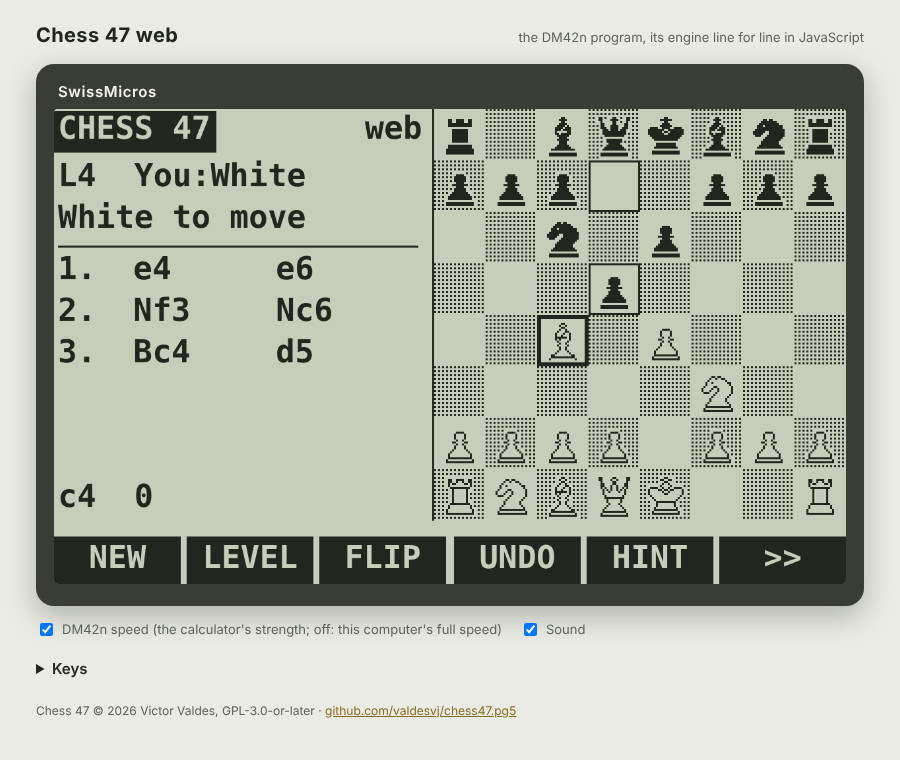
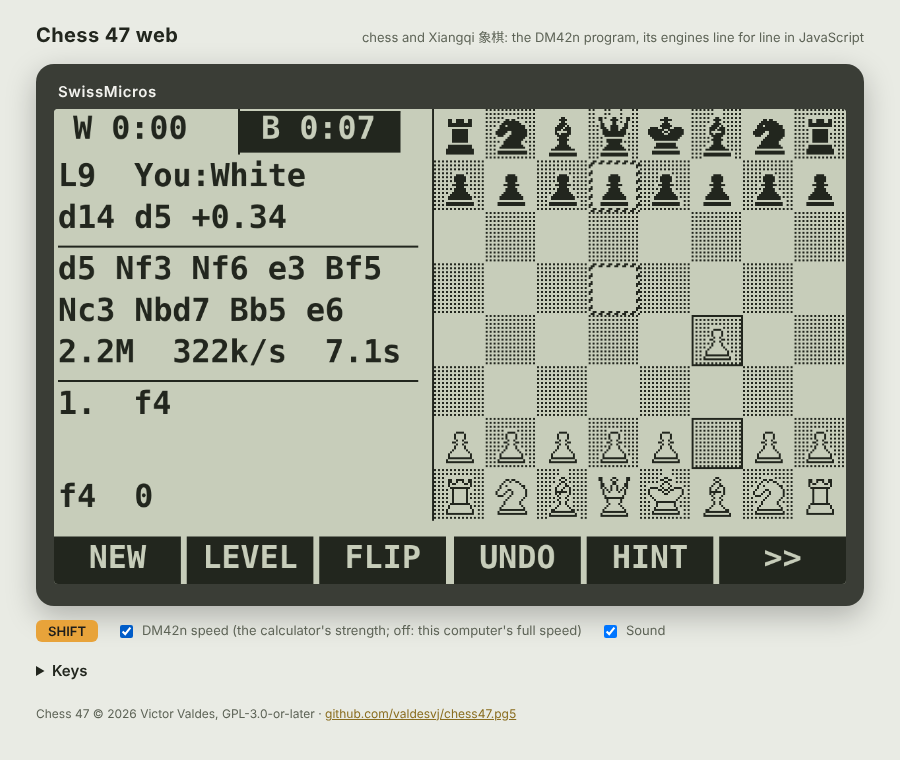
v1.2.1: the expected line always complete; the README, the screenshots
- The main-line table keeps the deeper entries of the current search
  (depth, age): the thinking display's whole line now shows after any
  opening (v1.2 sometimes showed one move). The search unchanged
  (test/bench_chess.txt; the JS engines = C).
- README: the description (tournament clock, thinking display, Xiangqi,
  the web version), "New in v1.2", the sections The clock and The
  thinking display, the new messages; the SHIFT F6 key row shortened.
- docs: screens.png (a 15+10 game, level 9 thinking, Chess960 with the
  clock OFF, CRAZY), the new clock.png and thinking.png, web.png and
  web_xiangqi.png with the thinking display.
- web/app.html: THINK and CLOCK in the keys help.
- PROGRAM_VERSION 1.2.1.

Claude-Session: https://claude.ai/code/session_01Jv6gmm1Hh3qMhnsULp2qaR

diff --git a/web/chess47.html b/web/chess47.html
@@ -43,14 +43,19 @@
     <canvas id="lcd" width="1200" height="720" aria-label="Chess 47 screen"></canvas>
   </div>
   <div class="opts">
-    <button id="shift" type="button" title="the game menu: XIANGQI / CHESS, PIECES, ZOOM, RESIGN, DRAW (or press Shift alone)">SHIFT</button>
+    <button id="shift" type="button" title="the game menu: XIANGQI / CHESS, PIECES, ZOOM, RESIGN, DRAW, THINK (or press Shift alone)">SHIFT</button>
     <label><input type="checkbox" id="calc" checked> DM42n speed (the calculator's strength; off: this computer's full speed)</label>
     <label><input type="checkbox" id="sound" checked> Sound</label>
   </div>
   <details>
     <summary>Keys</summary>
     <table>
-      <tr><td>SHIFT</td><td>the game menu on the soft keys (Shift pressed alone, or the SHIFT button): F1 XIANGQI / CHESS (each game is kept), F2 PIECES, F3 ZOOM, F4 RESIGN, F5 DRAW</td></tr>
+      <tr><td>SHIFT</td><td>the game menu on the soft keys (Shift pressed alone, or the SHIFT button): F1 XIANGQI / CHESS (each game is kept, with its clock), F2 PIECES, F3 ZOOM, F4 RESIGN, F5 DRAW, F6 THINK</td></tr>
+      <tr><td>THINK</td><td>SHIFT F6: the computer's thinking on / off. While it thinks: depth, best move, score; the expected line;
+        positions searched, a second, time; its move marked on the board</td></tr>
+      <tr><td>CLOCK</td><td>soft-key page 2 (F2): OFF, 1+0, 3+2, 5+3, 10+5, 15+10, 25+10, 90+30 (3+2 FIDE blitz, 15+10 FIDE rapid,
+        90+30 classical), before the first move. During a game CLOCK only stops the clock (twice); OFF shows each side's
+        time used. The next control at NEW</td></tr>
       <tr><td>click / tap</td><td>pick a piece, then its square (castling: the king, then its rook)</td></tr>
       <tr><td>* or x</td><td>the pieces: chess figures / letters; Xiangqi characters / symbols / letters</td></tr>
       <tr><td>+ or -</td><td>zoom: the board the full height, no soft keys (they still work)</td></tr>
@@ -798,8 +803,10 @@ function negamax(ply, depth, alpha, beta, can_null) {
   if (!legal) return incheck ? -MATE + ply : 0;
 
   if (pv && bm && best > orig && best < beta) {          /* a main-line node: its move kept for the display */
-    const q = p.lo & (PVH_N - 1);
-    pvhH[q] = p.hi; pvhL[q] = p.lo; pvhM[q] = bm;
+    const q = p.lo & (PVH_N - 1);                         /* the deeper kept (nearer the root), this search's */
+    if (pvhA[q] !== pv_age || (pvhH[q] === p.hi && pvhL[q] === p.lo) || depth >= pvhD[q]) {
+      pvhH[q] = p.hi; pvhL[q] = p.lo; pvhM[q] = bm; pvhD[q] = depth; pvhA[q] = pv_age;
+    }
   }
   if (ttH[e] !== p.hi || ttL[e] !== p.lo || depth >= ttD[e] || best >= beta) {
     ttH[e] = p.hi; ttL[e] = p.lo; ttM[e] = bm;
@@ -813,6 +820,8 @@ function negamax(ply, depth, alpha, beta, can_null) {
 /* the main lines' best moves, apart from the hash table (src/engine_common.h PVE): the "thinking" display's line */
 const PVH_N = 512;
 const pvhH = new Int32Array(PVH_N), pvhL = new Int32Array(PVH_N), pvhM = new Uint32Array(PVH_N);
+const pvhD = new Int8Array(PVH_N), pvhA = new Uint8Array(PVH_N);
+let pv_age = 0;                                           /* the search's number: older entries give way */
 /* the expected line: first, then each position's main-line move (else the hash table's), legal, until a repeat
    (src/search.inc search_pv): the tables are only read */
 function search_pv(root, first, max) {
@@ -834,7 +843,7 @@ function search_pv(root, first, max) {
    keys: [hi, lo] pairs of the game so far */
 function search(root, keys, lim) {
   const R = { best: 0, score: 0, depth: 0, nodes: 0 };
-  L = lim; stop = 0; nodes = 0;
+  L = lim; stop = 0; nodes = 0; pv_age = (pv_age + 1) & 255;
   t0 = lim.now ? lim.now() : 0;
   const n = gen_legal(root, scratch);
   if (!n) return R;
@@ -1469,8 +1478,10 @@ function negamax(ply, depth, alpha, beta, can_null) {
   if (!legal) return -MATE + ply;                       /* Xiangqi: no legal move loses, in check or not */
 
   if (pv && bm && best > orig && best < beta) {          /* a main-line node: its move kept for the display */
-    const q = p.lo & (PVH_N - 1);
-    pvhH[q] = p.hi; pvhL[q] = p.lo; pvhM[q] = bm;
+    const q = p.lo & (PVH_N - 1);                         /* the deeper kept (nearer the root), this search's */
+    if (pvhA[q] !== pv_age || (pvhH[q] === p.hi && pvhL[q] === p.lo) || depth >= pvhD[q]) {
+      pvhH[q] = p.hi; pvhL[q] = p.lo; pvhM[q] = bm; pvhD[q] = depth; pvhA[q] = pv_age;
+    }
   }
   if (ttH[e] !== p.hi || ttL[e] !== p.lo || depth >= ttD[e] || best >= beta) {
     ttH[e] = p.hi; ttL[e] = p.lo; ttM[e] = bm;
@@ -1484,6 +1495,8 @@ function negamax(ply, depth, alpha, beta, can_null) {
 /* the main lines' best moves, apart from the hash table (src/engine_common.h PVE): the "thinking" display's line */
 const PVH_N = 512;
 const pvhH = new Int32Array(PVH_N), pvhL = new Int32Array(PVH_N), pvhM = new Uint32Array(PVH_N);
+const pvhD = new Int8Array(PVH_N), pvhA = new Uint8Array(PVH_N);
+let pv_age = 0;                                           /* the search's number: older entries give way */
 /* the expected line: first, then each position's main-line move (else the hash table's), legal, until a repeat
    (src/search.inc search_pv): the tables are only read */
 function xq_search_pv(root, first, max) {
@@ -1505,7 +1518,7 @@ function xq_search_pv(root, first, max) {
    keys: [hi, lo] pairs of the game so far */
 function xq_search(root, keys, lim) {
   const R = { best: 0, score: 0, depth: 0, nodes: 0 };
-  L = lim; stop = 0; nodes = 0;
+  L = lim; stop = 0; nodes = 0; pv_age = (pv_age + 1) & 255;
   t0 = lim.now ? lim.now() : 0;
   const n = xq_gen_legal(root, scratch);
   if (!n) return R;

diff --git a/web/app.html b/web/app.html
@@ -43,14 +43,19 @@
     <canvas id="lcd" width="1200" height="720" aria-label="Chess 47 screen"></canvas>
   </div>
   <div class="opts">
-    <button id="shift" type="button" title="the game menu: XIANGQI / CHESS, PIECES, ZOOM, RESIGN, DRAW (or press Shift alone)">SHIFT</button>
+    <button id="shift" type="button" title="the game menu: XIANGQI / CHESS, PIECES, ZOOM, RESIGN, DRAW, THINK (or press Shift alone)">SHIFT</button>
     <label><input type="checkbox" id="calc" checked> DM42n speed (the calculator's strength; off: this computer's full speed)</label>
     <label><input type="checkbox" id="sound" checked> Sound</label>
   </div>
   <details>
     <summary>Keys</summary>
     <table>
-      <tr><td>SHIFT</td><td>the game menu on the soft keys (Shift pressed alone, or the SHIFT button): F1 XIANGQI / CHESS (each game is kept), F2 PIECES, F3 ZOOM, F4 RESIGN, F5 DRAW</td></tr>
+      <tr><td>SHIFT</td><td>the game menu on the soft keys (Shift pressed alone, or the SHIFT button): F1 XIANGQI / CHESS (each game is kept, with its clock), F2 PIECES, F3 ZOOM, F4 RESIGN, F5 DRAW, F6 THINK</td></tr>
+      <tr><td>THINK</td><td>SHIFT F6: the computer's thinking on / off. While it thinks: depth, best move, score; the expected line;
+        positions searched, a second, time; its move marked on the board</td></tr>
+      <tr><td>CLOCK</td><td>soft-key page 2 (F2): OFF, 1+0, 3+2, 5+3, 10+5, 15+10, 25+10, 90+30 (3+2 FIDE blitz, 15+10 FIDE rapid,
+        90+30 classical), before the first move. During a game CLOCK only stops the clock (twice); OFF shows each side's
+        time used. The next control at NEW</td></tr>
       <tr><td>click / tap</td><td>pick a piece, then its square (castling: the king, then its rook)</td></tr>
       <tr><td>* or x</td><td>the pieces: chess figures / letters; Xiangqi characters / symbols / letters</td></tr>
       <tr><td>+ or -</td><td>zoom: the board the full height, no soft keys (they still work)</td></tr>

diff --git a/web/xq_engine.js b/web/xq_engine.js
@@ -594,8 +594,10 @@ function negamax(ply, depth, alpha, beta, can_null) {
   if (!legal) return -MATE + ply;                       /* Xiangqi: no legal move loses, in check or not */
 
   if (pv && bm && best > orig && best < beta) {          /* a main-line node: its move kept for the display */
-    const q = p.lo & (PVH_N - 1);
-    pvhH[q] = p.hi; pvhL[q] = p.lo; pvhM[q] = bm;
+    const q = p.lo & (PVH_N - 1);                         /* the deeper kept (nearer the root), this search's */
+    if (pvhA[q] !== pv_age || (pvhH[q] === p.hi && pvhL[q] === p.lo) || depth >= pvhD[q]) {
+      pvhH[q] = p.hi; pvhL[q] = p.lo; pvhM[q] = bm; pvhD[q] = depth; pvhA[q] = pv_age;
+    }
   }
   if (ttH[e] !== p.hi || ttL[e] !== p.lo || depth >= ttD[e] || best >= beta) {
     ttH[e] = p.hi; ttL[e] = p.lo; ttM[e] = bm;
@@ -609,6 +611,8 @@ function negamax(ply, depth, alpha, beta, can_null) {
 /* the main lines' best moves, apart from the hash table (src/engine_common.h PVE): the "thinking" display's line */
 const PVH_N = 512;
 const pvhH = new Int32Array(PVH_N), pvhL = new Int32Array(PVH_N), pvhM = new Uint32Array(PVH_N);
+const pvhD = new Int8Array(PVH_N), pvhA = new Uint8Array(PVH_N);
+let pv_age = 0;                                           /* the search's number: older entries give way */
 /* the expected line: first, then each position's main-line move (else the hash table's), legal, until a repeat
    (src/search.inc search_pv): the tables are only read */
 function xq_search_pv(root, first, max) {
@@ -630,7 +634,7 @@ function xq_search_pv(root, first, max) {
    keys: [hi, lo] pairs of the game so far */
 function xq_search(root, keys, lim) {
   const R = { best: 0, score: 0, depth: 0, nodes: 0 };
-  L = lim; stop = 0; nodes = 0;
+  L = lim; stop = 0; nodes = 0; pv_age = (pv_age + 1) & 255;
   t0 = lim.now ? lim.now() : 0;
   const n = xq_gen_legal(root, scratch);
   if (!n) return R;

diff --git a/web/engine.js b/web/engine.js
@@ -716,8 +716,10 @@ function negamax(ply, depth, alpha, beta, can_null) {
   if (!legal) return incheck ? -MATE + ply : 0;
 
   if (pv && bm && best > orig && best < beta) {          /* a main-line node: its move kept for the display */
-    const q = p.lo & (PVH_N - 1);
-    pvhH[q] = p.hi; pvhL[q] = p.lo; pvhM[q] = bm;
+    const q = p.lo & (PVH_N - 1);                         /* the deeper kept (nearer the root), this search's */
+    if (pvhA[q] !== pv_age || (pvhH[q] === p.hi && pvhL[q] === p.lo) || depth >= pvhD[q]) {
+      pvhH[q] = p.hi; pvhL[q] = p.lo; pvhM[q] = bm; pvhD[q] = depth; pvhA[q] = pv_age;
+    }
   }
   if (ttH[e] !== p.hi || ttL[e] !== p.lo || depth >= ttD[e] || best >= beta) {
     ttH[e] = p.hi; ttL[e] = p.lo; ttM[e] = bm;
@@ -731,6 +733,8 @@ function negamax(ply, depth, alpha, beta, can_null) {
 /* the main lines' best moves, apart from the hash table (src/engine_common.h PVE): the "thinking" display's line */
 const PVH_N = 512;
 const pvhH = new Int32Array(PVH_N), pvhL = new Int32Array(PVH_N), pvhM = new Uint32Array(PVH_N);
+const pvhD = new Int8Array(PVH_N), pvhA = new Uint8Array(PVH_N);
+let pv_age = 0;                                           /* the search's number: older entries give way */
 /* the expected line: first, then each position's main-line move (else the hash table's), legal, until a repeat
    (src/search.inc search_pv): the tables are only read */
 function search_pv(root, first, max) {
@@ -752,7 +756,7 @@ function search_pv(root, first, max) {
    keys: [hi, lo] pairs of the game so far */
 function search(root, keys, lim) {
   const R = { best: 0, score: 0, depth: 0, nodes: 0 };
-  L = lim; stop = 0; nodes = 0;
+  L = lim; stop = 0; nodes = 0; pv_age = (pv_age + 1) & 255;
   t0 = lim.now ? lim.now() : 0;
   const n = gen_legal(root, scratch);
   if (!n) return R;

diff --git a/src/engine_common.h b/src/engine_common.h
@@ -39,7 +39,7 @@ typedef struct {
 
 /* the main lines' best moves, kept apart from the hash table (which overwrites them): the "thinking" display's expected
    line. Written at the search's main-line (PV) nodes only; read by search_pv / xq_search_pv */
-typedef struct { uint64_t key; Move move; uint32_t pad; } PVE;
+typedef struct { uint64_t key; Move move; int8_t depth; uint8_t age; uint16_t pad; } PVE;   /* age: the search */
 #define PVH_N 512
 
 /* The tables the games share (one game plays at a time): the hash table, the move stacks, the killers, the

diff --git a/src/main.h b/src/main.h
@@ -2,7 +2,7 @@
 #define __PGM_MAIN_H__
 
 #define PROGRAM_NAME    "CHESS47"
-#define PROGRAM_VERSION "1.2"
+#define PROGRAM_VERSION "1.2.1"
 
 /* 0xffffffff = no specific keymap required (SDK default when undefined).
    Chess 47 only uses the physical key positions shared by DMCP5 machines. */
